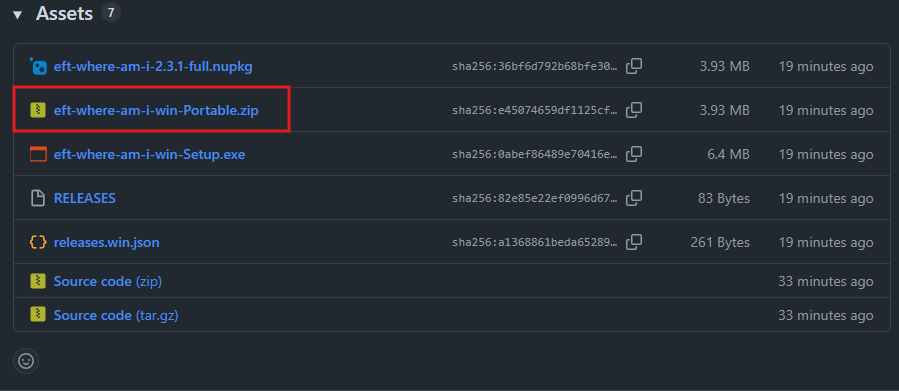
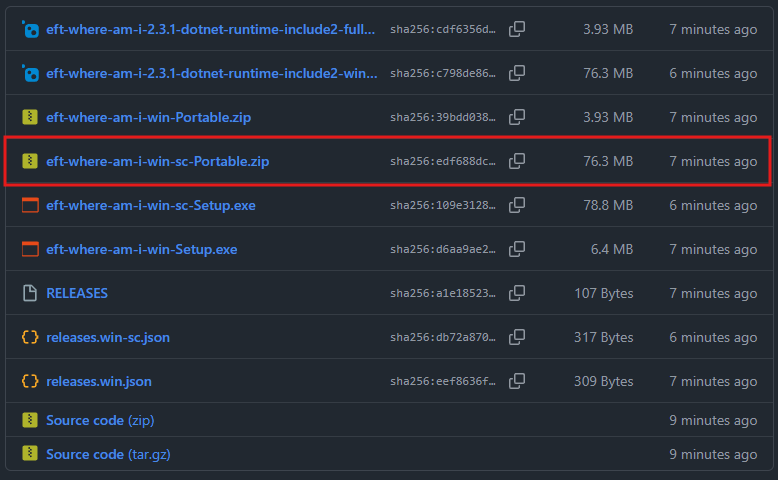
doc: 리드미에 런타임이 포함된 버전에 대한 안내 및 관장 메시지 추가

diff --git a/README.md b/README.md
@@ -92,7 +92,10 @@ TarkovHelper의 기능들도 일부 구현되어 있습니다.
 
 ![github-release-screenshot.png](assets/github-release-screenshot.png)
 
-[Releases](https://github.com/karpitony/eft-where-am-i/releases/latest)에서 최신 버전의 `.zip` 파일을 다운로드하세요.
+> **💡 권장 다운로드: `*win-sc-Portable.zip`**
+> 백신 오탐(False Positive)을 피하고 별도의 .NET 런타임 설치 없이 바로 실행하려면 **`win-sc-Portable.zip`** 버전을 다운로드하는 것을 강력히 권장합니다.
+
+[Releases](https://github.com/karpitony/eft-where-am-i/releases/latest)에서 최신 버전의 파일을 다운로드하세요.
 
 1. `.zip` 파일을 다운로드합니다.
 2. 원하는 위치에 압축을 해제합니다.

diff --git a/README_en.md b/README_en.md
@@ -92,7 +92,10 @@ If you need to preserve your screenshots, please uncheck this option.
 
 ![github-release-screenshot.png](assets/github-release-screenshot.png)
 
-Download the latest `.zip` file from [Releases](https://github.com/karpitony/eft-where-am-i/releases/latest).
+> **💡 Recommended: `*win-sc-Portable.zip`**
+> We highly recommend downloading the **`win-sc-Portable.zip`** version to avoid antivirus false positives and to run the app immediately without needing to separately install the .NET runtime.
+
+Download the latest release files from [Releases](https://github.com/karpitony/eft-where-am-i/releases/latest).
 
 1. Download the `.zip` file.
 2. Extract it to your preferred location.
